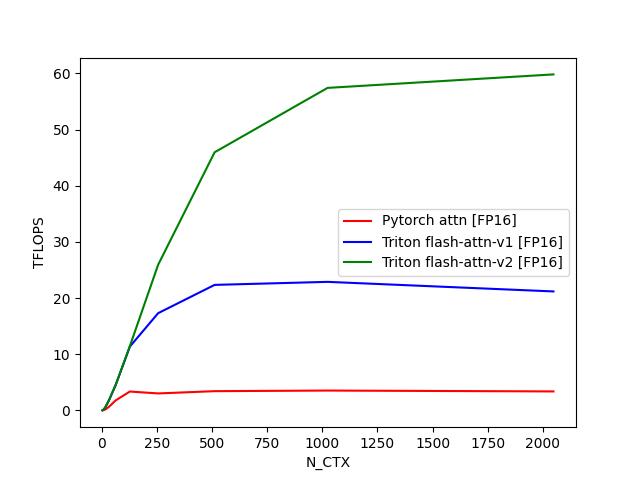
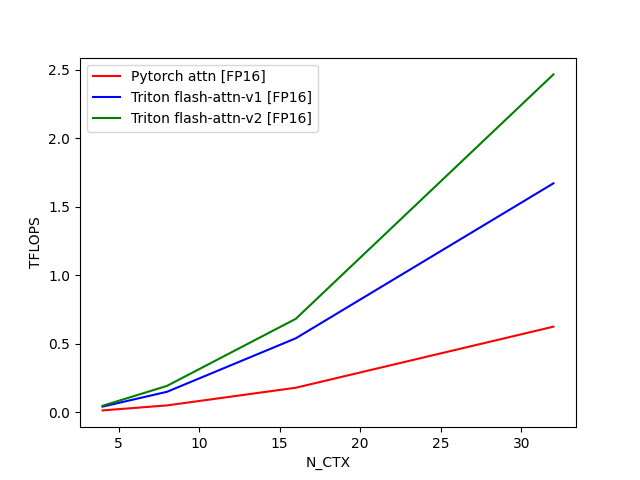
optimize triton flash attn version 2

diff --git a/csrc/triton/flash_attn_v2.py b/csrc/triton/flash_attn_v2.py
@@ -62,20 +62,20 @@ def flash_attn_kernel_v2(
 ):
     tl.static_assert(BLOCK_N <= HEAD_DIM)
 
-    start_m = tl.program_id(0)  # 1 / tl.div(N_CTX, BLOCK_M)
-    off_hz = tl.program_id(1)  # 1 / batch_size * head_size
+    start_m = tl.program_id(0)  # tl.div(N_CTX, BLOCK_M)
+    bh_size = tl.program_id(1)  # Batch * Head
 
-    # programs is B * H
-    off_z = off_hz // H
-    off_h = off_hz % H
+    start_b = bh_size // H
+    start_h = bh_size % H
 
-    q_offset = off_z.to(tl.int64) * stride_qb + off_h.to(tl.int64) * stride_qh
-    k_offset = off_z.to(tl.int64) * stride_kb + off_h.to(tl.int64) * stride_kh
-    v_offset = off_z.to(tl.int64) * stride_vb + off_h.to(tl.int64) * stride_vh
-    o_offset = off_z.to(tl.int64) * stride_ob + off_h.to(tl.int64) * stride_oh
+    # q, k, v, o
+    q_offsets = start_b.to(tl.int64) * stride_qb + start_h.to(tl.int64) * stride_qh
+    k_offsets = start_b.to(tl.int64) * stride_kb + start_h.to(tl.int64) * stride_kh
+    v_offsets = start_b.to(tl.int64) * stride_vb + start_h.to(tl.int64) * stride_vh
+    o_offsets = start_b.to(tl.int64) * stride_ob + start_h.to(tl.int64) * stride_oh
 
-    Q_block_ptr = tl.make_block_ptr(
-        base=Q_ptr + q_offset,
+    q_block_ptr = tl.make_block_ptr(
+        base=Q_ptr + q_offsets,
         shape=(N_CTX, HEAD_DIM),
         strides=(stride_qm, stride_qk),
         offsets=(start_m * BLOCK_M, 0),
@@ -83,9 +83,9 @@ def flash_attn_kernel_v2(
         order=(1, 0),
     )
 
-    # spilt k block and transpose K tensor
-    K_block_ptr = tl.make_block_ptr(
-        base=K_ptr + k_offset,
+    # Load K as (N_CTX, HEAD_DIM) and transpose to (HEAD_DIM, BLOCK_N) for dot product
+    k_block_ptr = tl.make_block_ptr(
+        base=K_ptr + k_offsets,
         shape=(HEAD_DIM, N_CTX),
         strides=(stride_kk, stride_kn),
         offsets=(0, 0),
@@ -93,8 +93,8 @@ def flash_attn_kernel_v2(
         order=(0, 1),
     )
 
-    V_block_ptr = tl.make_block_ptr(
-        base=V_ptr + v_offset,
+    v_block_ptr = tl.make_block_ptr(
+        base=V_ptr + v_offsets,
         shape=(N_CTX, HEAD_DIM),
         strides=(stride_vk, stride_vn),
         offsets=(0, 0),
@@ -102,8 +102,8 @@ def flash_attn_kernel_v2(
         order=(1, 0),
     )
 
-    O_block_ptr = tl.make_block_ptr(
-        base=O_ptr + o_offset,
+    o_block_ptr = tl.make_block_ptr(
+        base=O_ptr + o_offsets,
         shape=(N_CTX, HEAD_DIM),
         strides=(stride_om, stride_on),
         offsets=(start_m * BLOCK_M, 0),
@@ -111,30 +111,24 @@ def flash_attn_kernel_v2(
         order=(1, 0),
     )
 
-    offs_m = start_m * BLOCK_M + tl.arange(0, BLOCK_M)
-    offs_n = tl.arange(0, BLOCK_N)
-
-    # initialize max, l and acc
+    # initialize m_i, l_i, acc
     m_i = tl.zeros([BLOCK_M], dtype=tl.float32) - float("inf")
     l_i = tl.zeros([BLOCK_M], dtype=tl.float32)
-    acc = tl.zeros([BLOCK_M, HEAD_DIM], dtype=tl.float32)  # result
+    acc = tl.zeros([BLOCK_M, HEAD_DIM], dtype=tl.float32)
 
     qk_scale = sm_scale
-    # qk_scale *= 1.44269504  # 1/log(2)
-
-    q = tl.load(Q_block_ptr)
+    q = tl.load(q_block_ptr)
 
     if IS_CAUSAL:
         # Causal Attention (IS_CAUSAL=True):
         # Q[i] Only for K[0:i]
         #      K[0]  K[1]  K[2]  K[3]  K[4]
-        # Q[0]  ✗     ✗     ✗     ✗     ✗    ← hi = 0
-        # Q[1]  ✓     ✗     ✗     ✗     ✗    ← hi = BLOCK_M
-        # Q[2]  ✓     ✓     ✗     ✗     ✗    ← hi = 2*BLOCK_M
-        # Q[3]  ✓     ✓     ✓     ✗     ✗    ← hi = 3*BLOCK_M
-        # Q[4]  ✓     ✓     ✓     ✓     ✗    ← hi = 4*BLOCK_M
-        lo = 0
-        hi = tl.minimum((start_m + 1) * BLOCK_M, N_CTX)
+        # Q[0]  ✓     ✗     ✗     ✗     ✗    ← hi = 0
+        # Q[1]  ✓     ✓     ✗     ✗     ✗    ← hi = BLOCK_M
+        # Q[2]  ✓     ✓     ✓     ✗     ✗    ← hi = 2*BLOCK_M
+        # Q[3]  ✓     ✓     ✓     ✓     ✗    ← hi = 3*BLOCK_M
+        # Q[4]  ✓     ✓     ✓     ✓     ✓    ← hi = 4*BLOCK_M
+        lo, hi = 0, tl.minimum((start_m + 1) * BLOCK_M, N_CTX)
     else:
         # Full Attention (IS_CAUSAL=False):
         #      K[0]  K[1]  K[2]  K[3]  K[4]
@@ -145,43 +139,44 @@ def flash_attn_kernel_v2(
         # Q[4]  ✓     ✓     ✓     ✓     ✓
         lo, hi = 0, N_CTX
 
+    m_offsets = start_m * BLOCK_M + tl.arange(0, BLOCK_M)
+    n_offsets = tl.arange(0, BLOCK_N)
+
     for start_n in tl.range(lo, hi, BLOCK_N):
         start_n = tl.multiple_of(start_n, BLOCK_N)
 
-        k = tl.load(K_block_ptr)
-        qk = tl.dot(q, k)
+        k = tl.load(k_block_ptr)  # (HEAD_DIM, BLOCK_N)
+        qk = tl.dot(q, k)  # (BLOCK_M, BLOCK_n)
 
         if IS_CAUSAL:
-            causal_mask = offs_m[:, None] >= (start_n + offs_n)
+            causal_mask = m_offsets[:, None] >= (start_n + n_offsets)
             qk = tl.where(causal_mask, qk, float("-inf"))
 
-        m_ij = tl.maximum(m_i, tl.max(qk, 1))
+        s = qk * qk_scale
 
-        qk = qk * qk_scale - m_ij[:, None]
-        p = tl.exp(qk)
+        m_ij = tl.maximum(tl.max(s, 1), m_i)
+        p = tl.exp(s - m_ij[:, None])
 
         alpha = tl.exp(m_i - m_ij)
 
-        # update l_i and m_i
-        l_i = l_i * alpha
-        l_ij = tl.sum(p, 1)
-        l_i += l_ij
+        # update m_i and l_i
+        l_i = l_i * alpha + tl.sum(p, 1)
         m_i = m_ij
 
         # update acc
         acc = acc * alpha[:, None]
-        v = tl.load(V_block_ptr, boundary_check=(0, 1))
-        p = p.to(tl.float16)
+        v = tl.load(v_block_ptr, boundary_check=(0, 1))
+        p = p.to(tl.float16)  # use tensor core
         acc = tl.dot(p, v, acc)
 
-        # remove k v ptr
-        V_block_ptr = tl.advance(V_block_ptr, (BLOCK_N, 0))
-        K_block_ptr = tl.advance(K_block_ptr, (0, BLOCK_N))
+        # move k, v ptr
+        k_block_ptr = tl.advance(k_block_ptr, (0, BLOCK_N))
+        v_block_ptr = tl.advance(v_block_ptr, (BLOCK_N, 0))
 
     # epilogue
     l_i = tl.where(l_i == 0, 1.0, l_i)
     acc = acc / l_i[:, None]
-    tl.store(O_block_ptr, acc.to(O_ptr.type.element_ty), boundary_check=(0, 1))
+    tl.store(o_block_ptr, acc.to(O_ptr.type.element_ty), boundary_check=(0, 1))
 
 
 def flash_attn_v2(

diff --git a/benchmark/flash_attn.py b/benchmark/flash_attn.py
@@ -12,7 +12,7 @@ def get_perf_config():
         configs.append(
             triton.testing.Benchmark(
                 x_names=["N_CTX"],
-                x_vals=[2**i for i in range(2, 12)],
+                x_vals=[2**i for i in range(2, 6)],
                 line_arg="provider",
                 line_vals=[
                     "pytorch attn",
